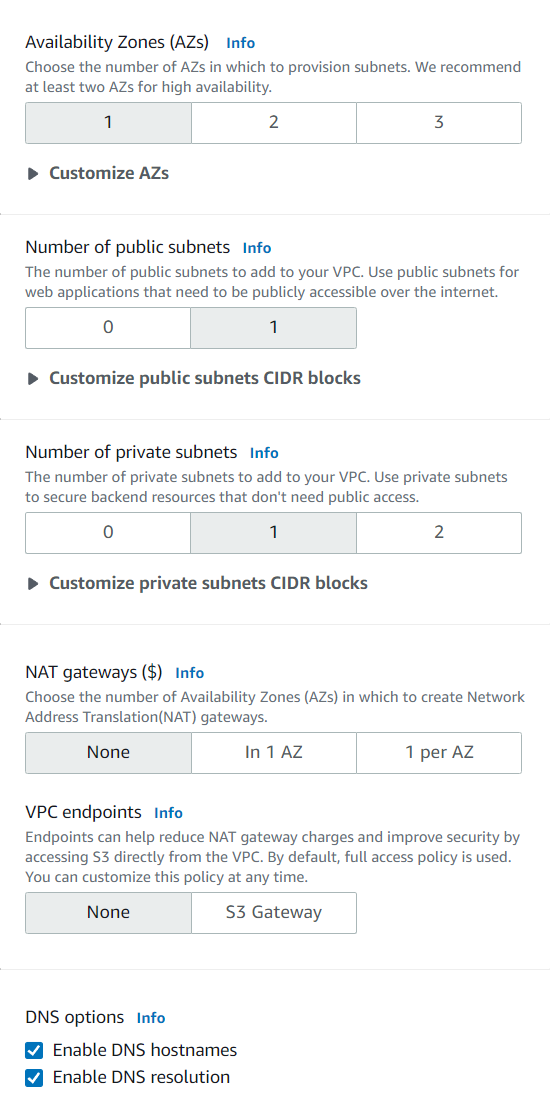
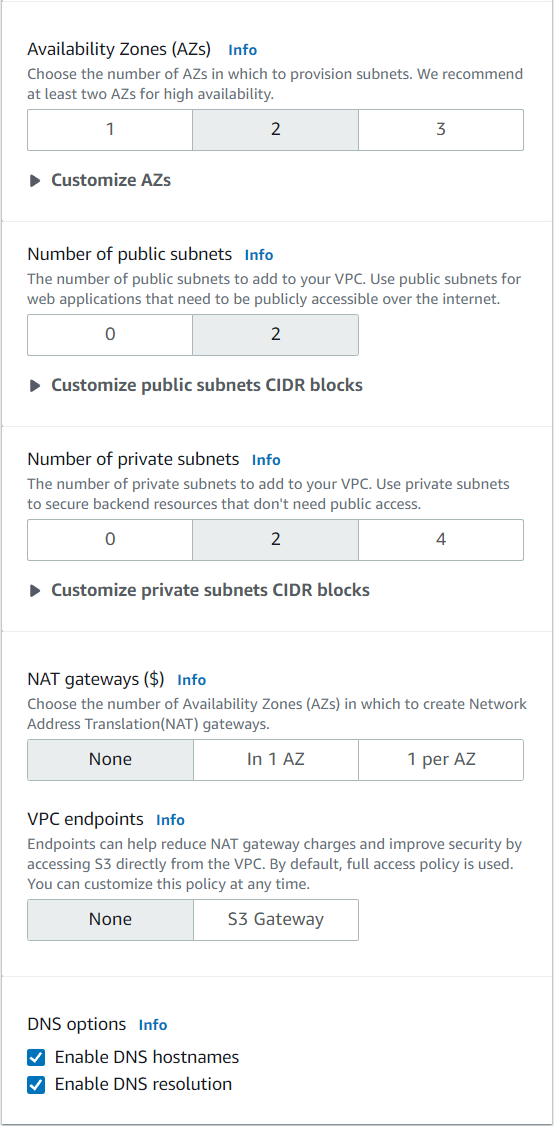
Fix part 2 of project 3

diff --git a/projects/project-3/part-2/README.md b/projects/project-3/part-2/README.md
@@ -14,11 +14,11 @@ The first part of the settings should look like this:
 
 ![Create VPC Subnets](images/create-vpc-subnets.png ':size=400')
 
-For the next step, choose **1 Availability Zone**, as only one will be needed to complete the project.
+For the next step, choose **2 Availability Zones**. Only one AZ will be needed to complete the project, but in order to create a RDS Database, it is needed to have at least 2 AZ.
 
-> In companies, it is preferable to have at least two Availability Zones to implement high availability.
+> To know why 2 AZ are required for RDS: https://docs.aws.amazon.com/AmazonRDS/latest/APIReference/API_CreateDBSubnetGroup.html
 
-Select a **Number of public subnets** to 1, since it will be used to interact with the tools installed in the containers. Do the same for the **Number of private subnets** which will contain only RDS.
+Select a **Number of public subnets** to 2, since it will be used to interact with the tools installed in the containers. Do the same for the **Number of private subnets** which will contain only RDS.
 
 Do not add a **NAT Gateway**, as this will be charged (not respecting the Free Tier), and the containers will communicate with the RDS database via an endpoint (unnecessary NAT Gateway).
 
@@ -34,13 +34,15 @@ All that remains is to create the VPC, and wait for its resources to be generate
 
 ![VPC Resources Creation](images/vpc-resources-creation.png ':size=700')
 
-Last step, go to *Subnets*, in order to edit the subnets settings of the **public subnet** of the newly created VPC:
+Last step, go to *Subnets*, in order to edit the subnets settings of the **public subnets** of the newly created VPC:
 
 ![Edit Public Subnet Settings](images/edit-public-subnet-settings.png ':size=700')
 
 The **auto-assign public IPv4 address** must be enabled at all costs, so that each AWS tool linked to the public subnet automatically gets a public IP:
 
 ![Enable Auto Assign](images/enable-auto-assign.png ':size=700')
+
+Do the same for the other public subnet.
 
 The VPC is ready, it is now possible to create the AWS tools, and the first one created will be RDS.
 
